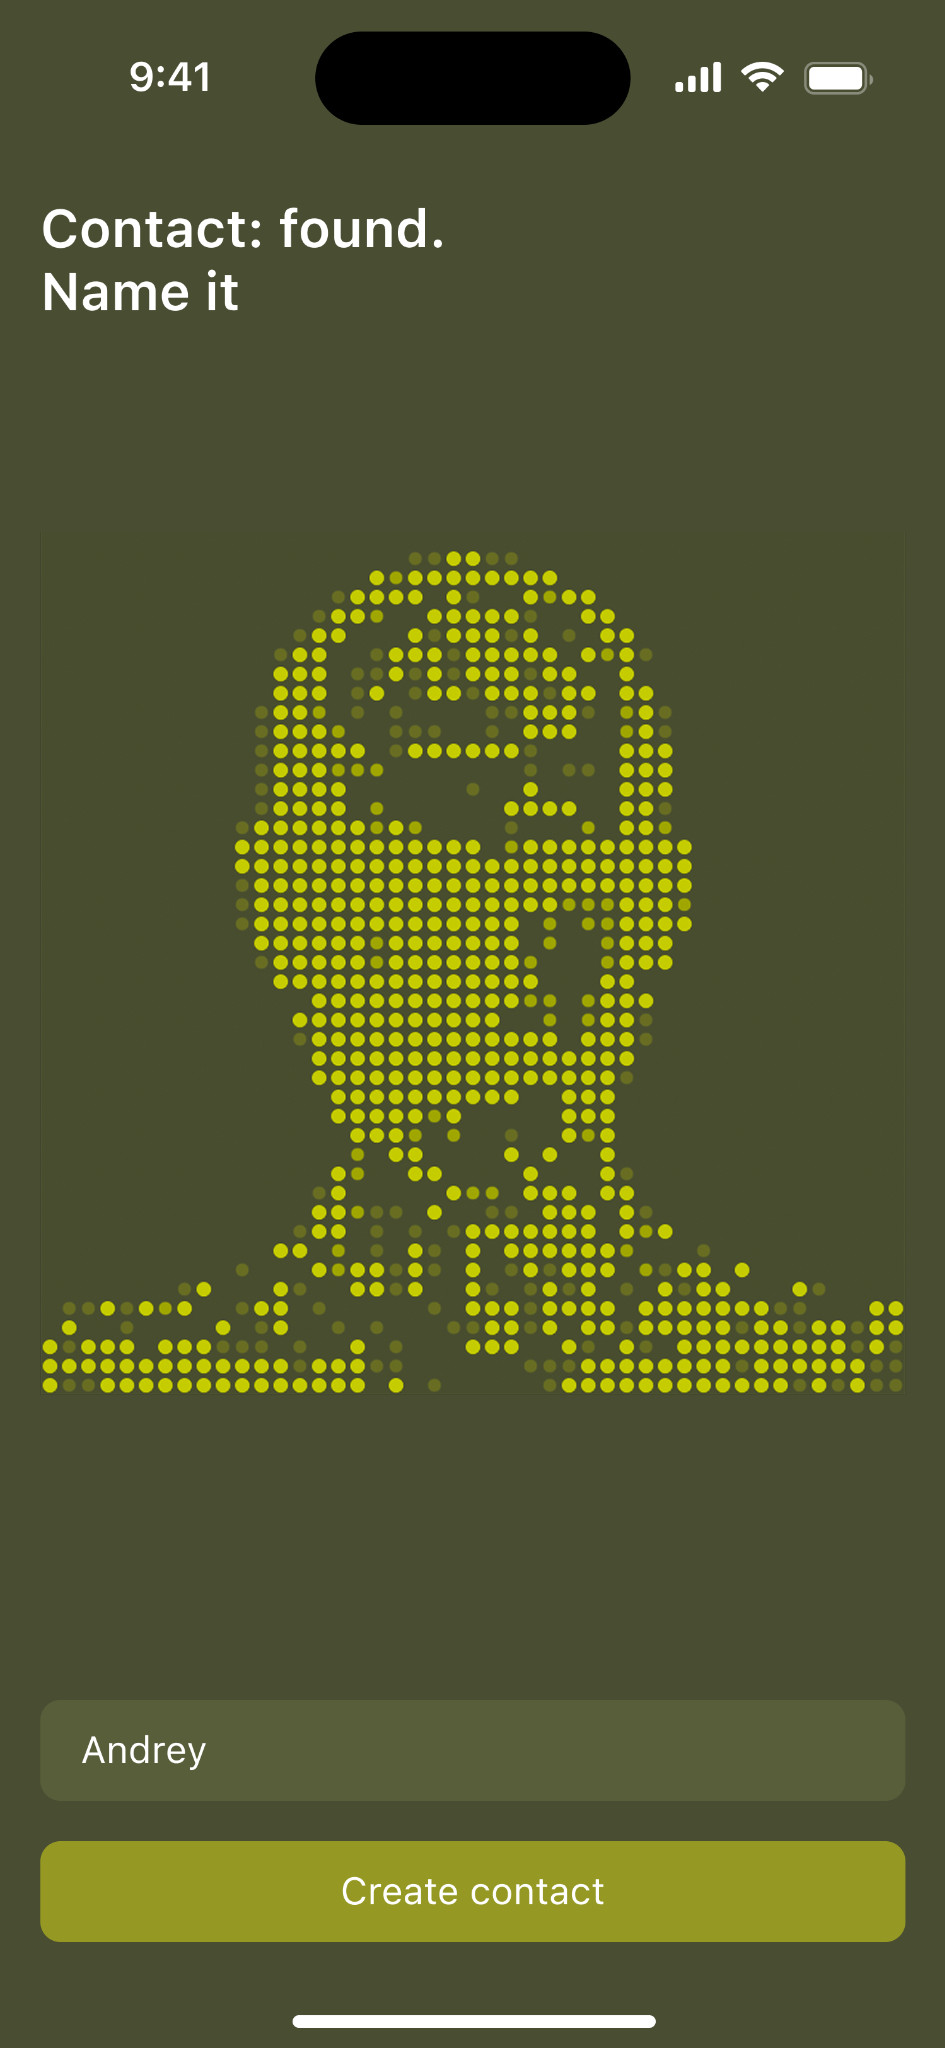
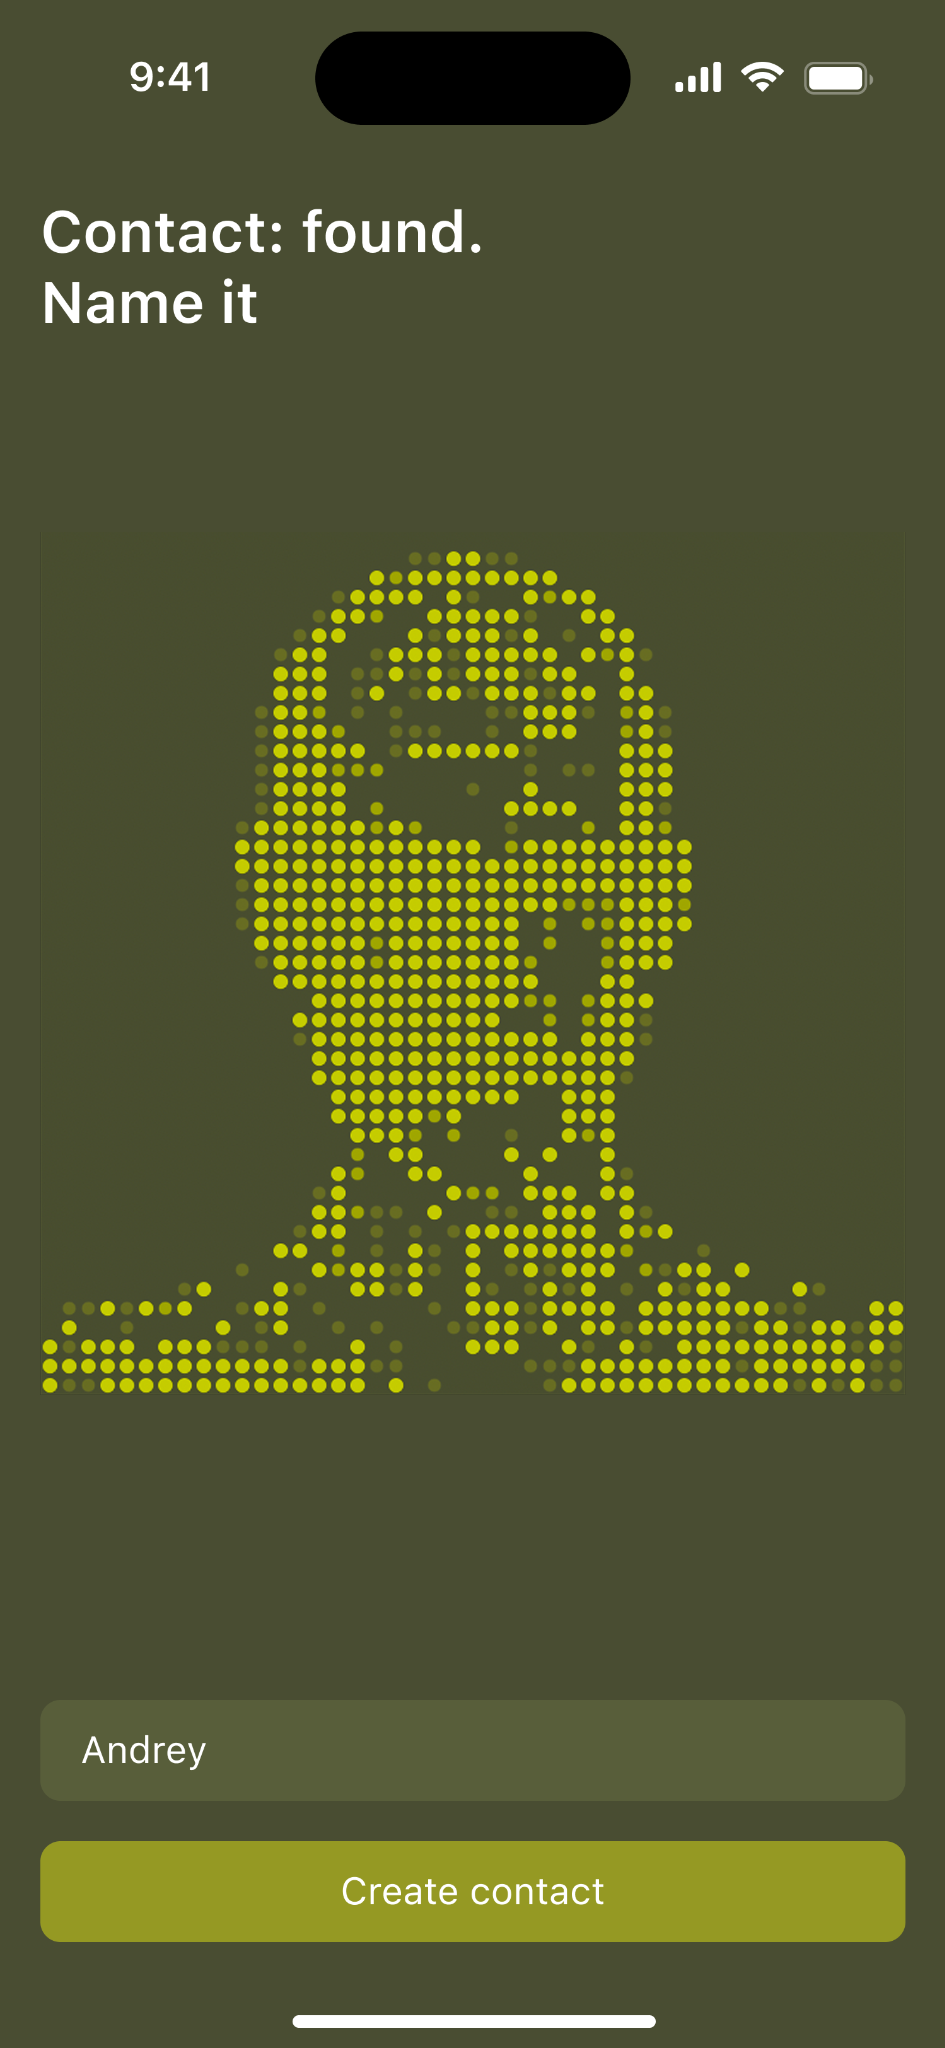
195
195

Changed region(s): [[0.0307, 0.0938, 0.491, 0.1562]]

diff --git a/core/index.html b/core/index.html
@@ -353,10 +353,13 @@
 
           <div class="case-chat-story">
             <p>
-              При разборе сценария я нашёл две точки, где защищённая переписка всё равно может выйти за пределы разговора: скриншот и пересылка сообщения.
+              При разборе сценария я нашёл две точки, где безопасность переписки может нарушиться уже на стороне собеседника: он может сделать скриншот или переслать сообщение.
+            </p>
+            <p>
+              Дальше разобрал, где пользователь должен узнать об этом. Получилось два уровня: внутри конкретного чата — чтобы видеть действие в контексте переписки, и на экране чатов — чтобы заметить событие ещё до открытия диалога.
             </p>
             <p class="case-highlight">
-              <span class="case-conclusion-mark">На этапе анализа конкурентов я уже видел рабочий паттерн: такие действия можно не запрещать, а делать заметными для второго участника прямо внутри чата.</span>
+              <span class="case-conclusion-mark">На этапе анализа конкурентов я уже видел рабочий паттерн: такие действия можно не запрещать, а фиксировать и делать заметными. Поэтому заложил индикаторы и внутри чата, и на уровне списка чатов.</span>
             </p>
           </div>
 
